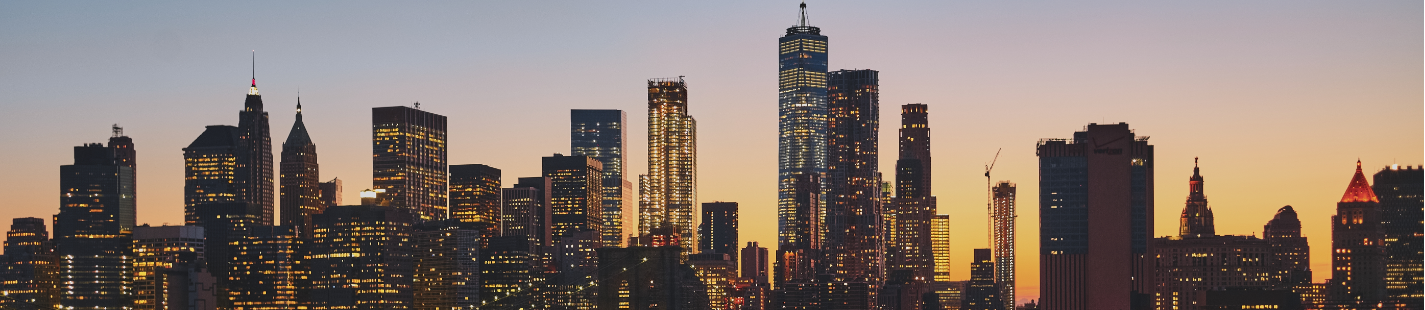
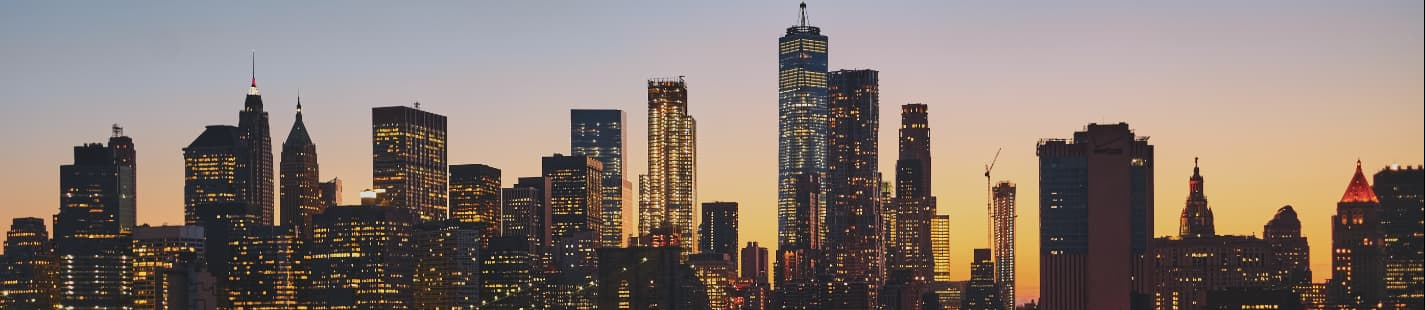
Compressed images

diff --git a/about.html b/about.html
@@ -258,7 +258,7 @@
       <div class="container">
         <div class="faq-content">
           <div class="faq-image" data-aos="fade-right">
-            <img src="assets/images/faq.png" alt="Frequently Asked Questions" />
+            <img src="assets/images/faq.jpg" alt="Frequently Asked Questions" />
           </div>
           <div class="faq-text" data-aos="fade-left">
             <h2>Frequently Asked Questions</h2>
